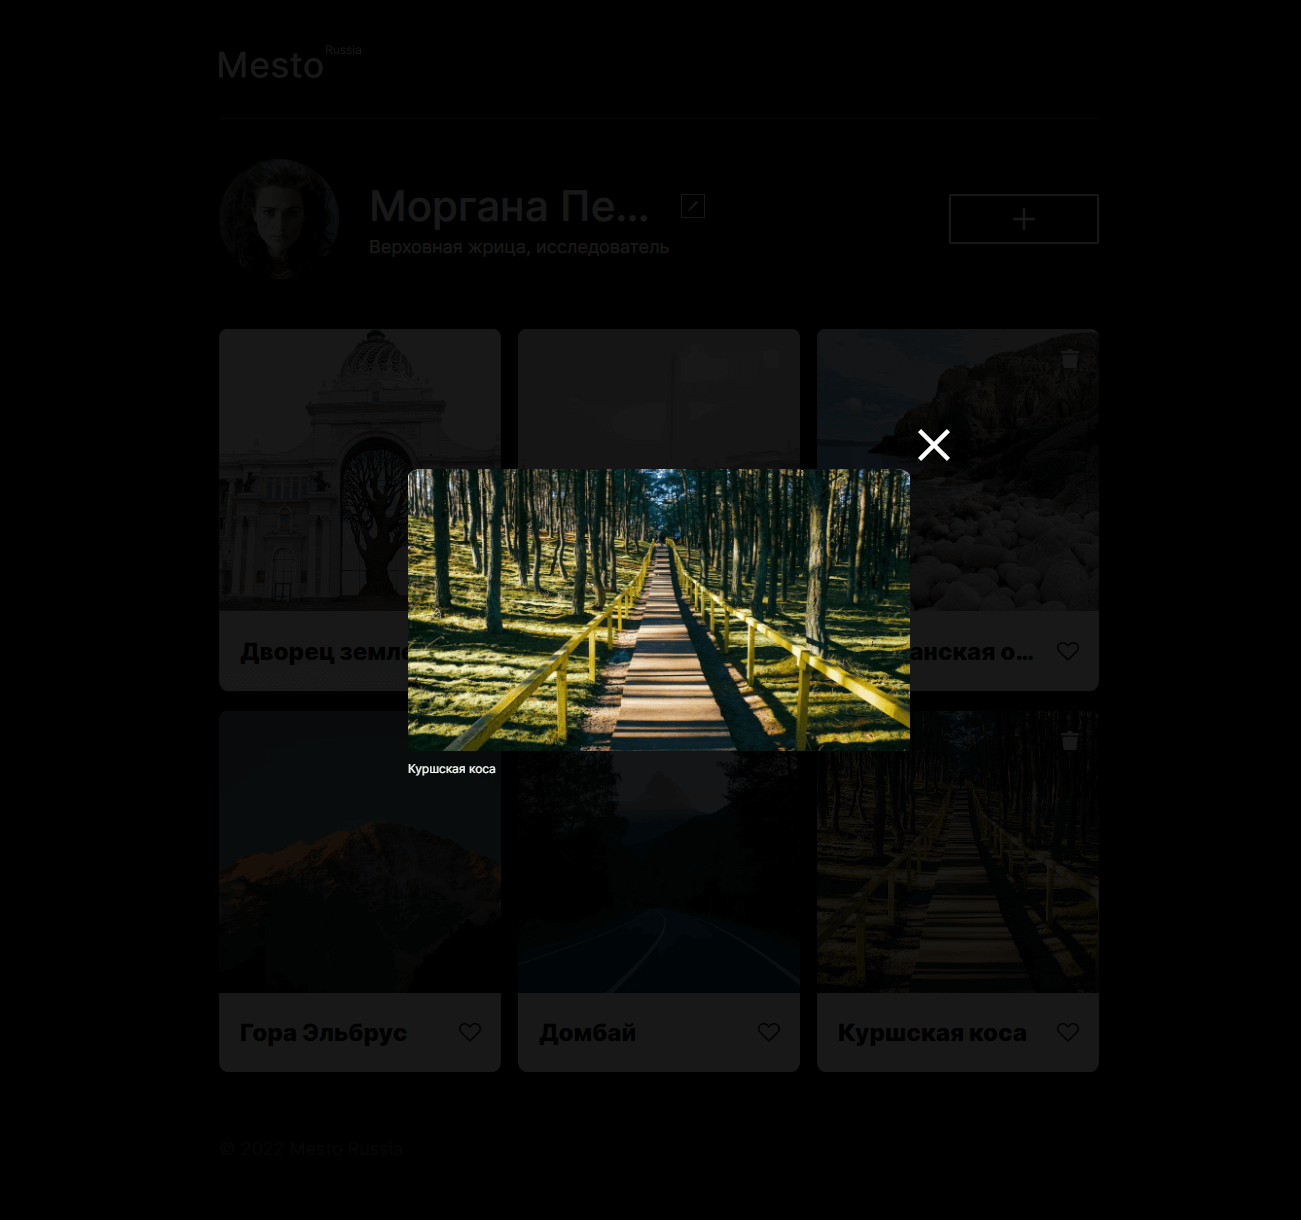
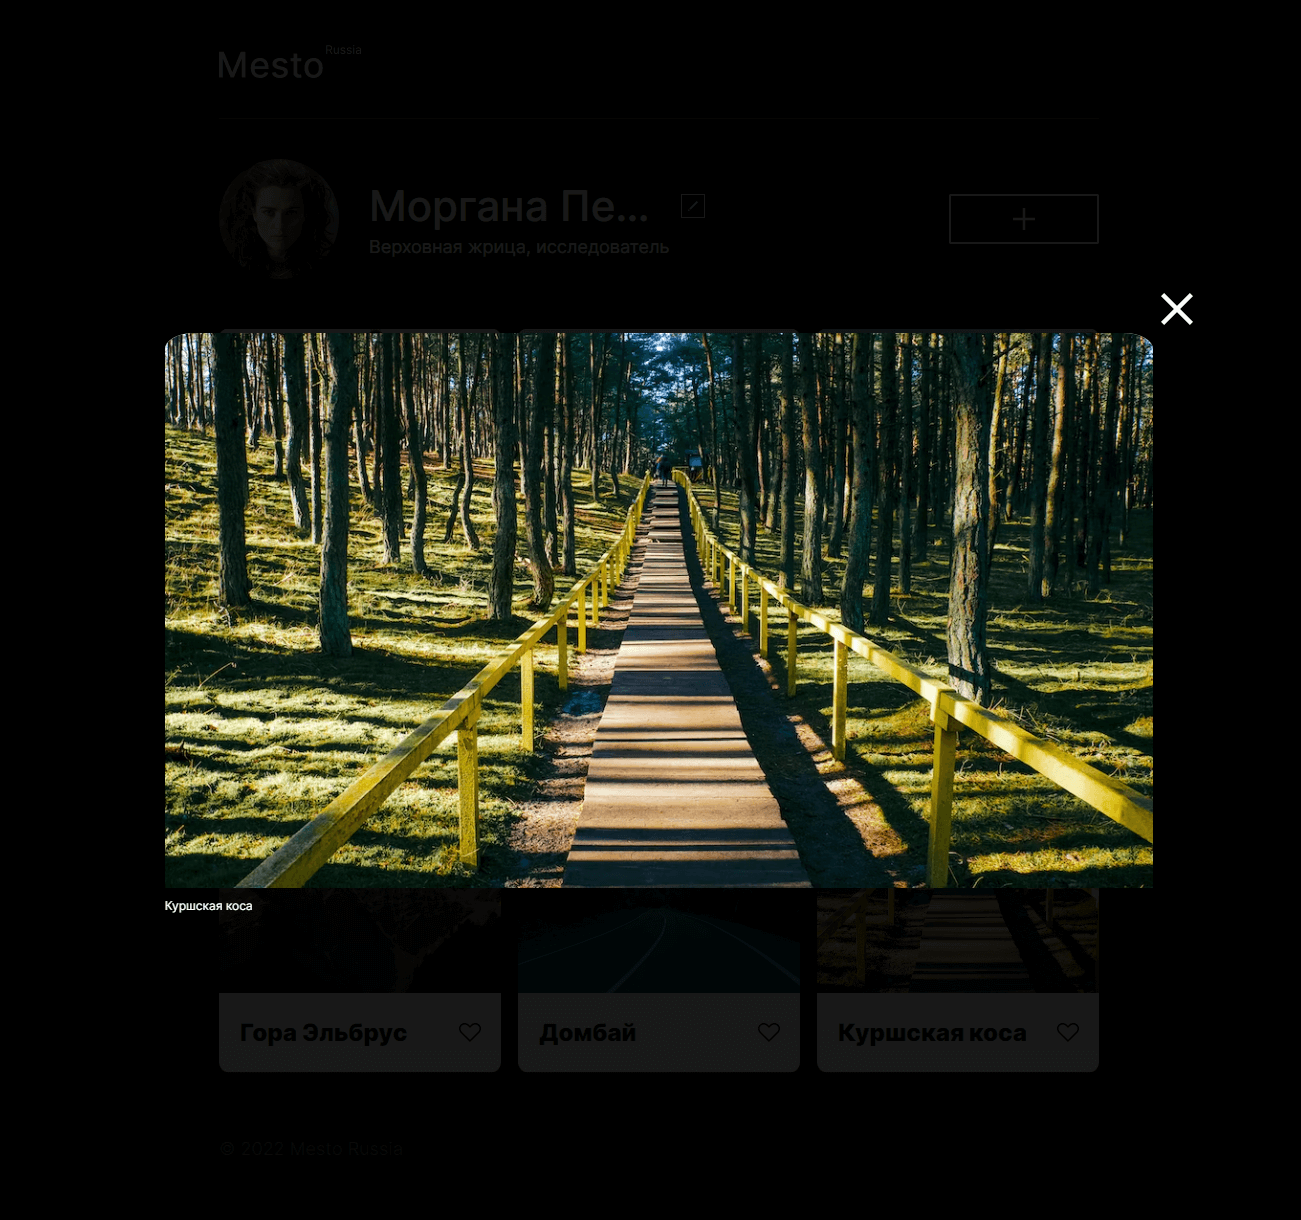
hotfix: bug-popups

Changed region(s): [[0.123, 0.2492, 0.8916, 0.7475], [0.8916, 0.2492, 0.9224, 0.2803]]

diff --git a/index.html b/index.html
@@ -54,25 +54,10 @@
         </footer>
 
         <!-- Блок 5 popup -->
-        <section class="popups"></section>
-
-        <template class="cards-template">
-            <li class="card">
-                <img class="card__image indicator">
-                <div class="card__item">
-                    <h2 class="card__item-title much-text"></h2>
-                    <button type="button" name="like-button" aria-label="Кнопка &quot;Лайк&quot;"
-                        class="card__item-like-button indicator"></button>
-                </div>
-                <button type="button" name="delete-button" aria-label="Кнопка &quot;Удалить&quot;"
-                    class="card__delete-button indicator"></button>
-            </li>
-        </template>
-
-        <template class="popups-template">
+        <section class="popups">
             <div class="popup popup_type_edit">
                 <div class="popup__container">
-                    <form name="profile-form" class="popup__form">
+                    <form name="popup-form" class="popup__form">
                         <h3 class="popup__form-heading">Редактировать профиль</h3>
                         <fieldset class="popup__info">
                             <input type="text" name="popup__input_type_name-text"
@@ -89,13 +74,14 @@
             </div>
             <div class="popup popup_type_new-card">
                 <div class="popup__container">
-                    <form name="profile-form" class="popup__form">
+                    <form name="popup-form" class="popup__form">
                         <h3 class="popup__form-heading">Новое место</h3>
                         <fieldset class="popup__info">
                             <input type="text" name="popup__input_type_name-text"
                                 class="popup__input popup__input_type_name-text" placeholder="Название" required>
                             <input type="url" name="popup__input_type_description-url"
-                                class="popup__input popup__input_type_description-url" placeholder="Ссылка на картинку" required>
+                                class="popup__input popup__input_type_description-url" placeholder="Ссылка на картинку"
+                                required>
                         </fieldset>
                         <button type="submit" name="submit" aria-label="Кнопка отправки формы &quot;Создать&quot;"
                             class="popup__submit indicator">Создать</button>
@@ -106,14 +92,25 @@
             </div>
             <div class="popup popup_preview popup_type_image">
                 <div class="popup__container popup__container_preview">
-                    <form name="profile-form" class="popup__form">
-                        <img class="card__image card__image_preview indicator">
-                        <h3 class="popup__form-heading popup__form-heading_preview"></h3>
-                    </form>
+                    <img class="card__image card__image_preview indicator">
+                    <h3 class="popup__form-heading popup__form-heading_preview"></h3>
                     <button type="button" name="close-button" aria-label="Кнопка &quot;Закрыть&quot;"
                         class="popup__close-button indicator"></button>
                 </div>
             </div>
+        </section>
+
+        <template class="cards-template">
+            <li class="card">
+                <img class="card__image indicator">
+                <div class="card__item">
+                    <h2 class="card__item-title much-text"></h2>
+                    <button type="button" name="like-button" aria-label="Кнопка &quot;Лайк&quot;"
+                        class="card__item-like-button indicator"></button>
+                </div>
+                <button type="button" name="delete-button" aria-label="Кнопка &quot;Удалить&quot;"
+                    class="card__delete-button indicator"></button>
+            </li>
         </template>
 
     </div>

diff --git a/scripts/constants.js b/scripts/constants.js
@@ -29,16 +29,15 @@ const elementTemplateCards = document.querySelector('.cards-template').content;
 const elementSectionCards = document.querySelector('.cards__list');
 const elementCard = elementTemplateCards.querySelector('.card');
 // Добавление переменных popups (edit, new-card, image)
-const elementTemplatePopups = document.querySelector('.popups-template').content;
 const elementSectionPopups = document.querySelector('.popups');
-const elementPopupEdit = elementTemplatePopups.querySelector('.popup_type_edit'); // Редактировать профиль
+const elementPopupEdit = elementSectionPopups.querySelector('.popup_type_edit'); // Редактировать профиль
 const elementPopupEditNameInput = elementPopupEdit.querySelector('.popup__input_type_name-text'); // поля формы в DOM
 const elementPopupEditJobInput = elementPopupEdit.querySelector('.popup__input_type_description-text');
 const elementPopupEditButton = document.querySelector('.profile__intro-edit-button');
 const introTitle = document.querySelector('.profile__intro-title');
 const introText = document.querySelector('.profile__intro-text');
-const elementPopupNewCard = elementTemplatePopups.querySelector('.popup_type_new-card'); // Новое место
+const elementPopupNewCard = elementSectionPopups.querySelector('.popup_type_new-card'); // Новое место
 const elementPopupNewCardNameInput = elementPopupNewCard.querySelector('.popup__input_type_name-text');
 const elementPopupNewCardLinkInput = elementPopupNewCard.querySelector('.popup__input_type_description-url');
 const elementPopupNewCardButton = document.querySelector('.profile__add-button');
-const elementPopupImage = elementTemplatePopups.querySelector('.popup_type_image'); // Превью
+const elementPopupImage = elementSectionPopups.querySelector('.popup_type_image'); // Превью

diff --git a/blocks/card/__image/_preview/card__image_preview.css b/blocks/card/__image/_preview/card__image_preview.css
@@ -1,6 +1,8 @@
 .card__image_preview {
     max-width: 75vw;
     max-height: 75vh;
+    width: 100%;
+    height: 100%;
     vertical-align: bottom;
     border-radius: 3% 3% 0 0;
 }
